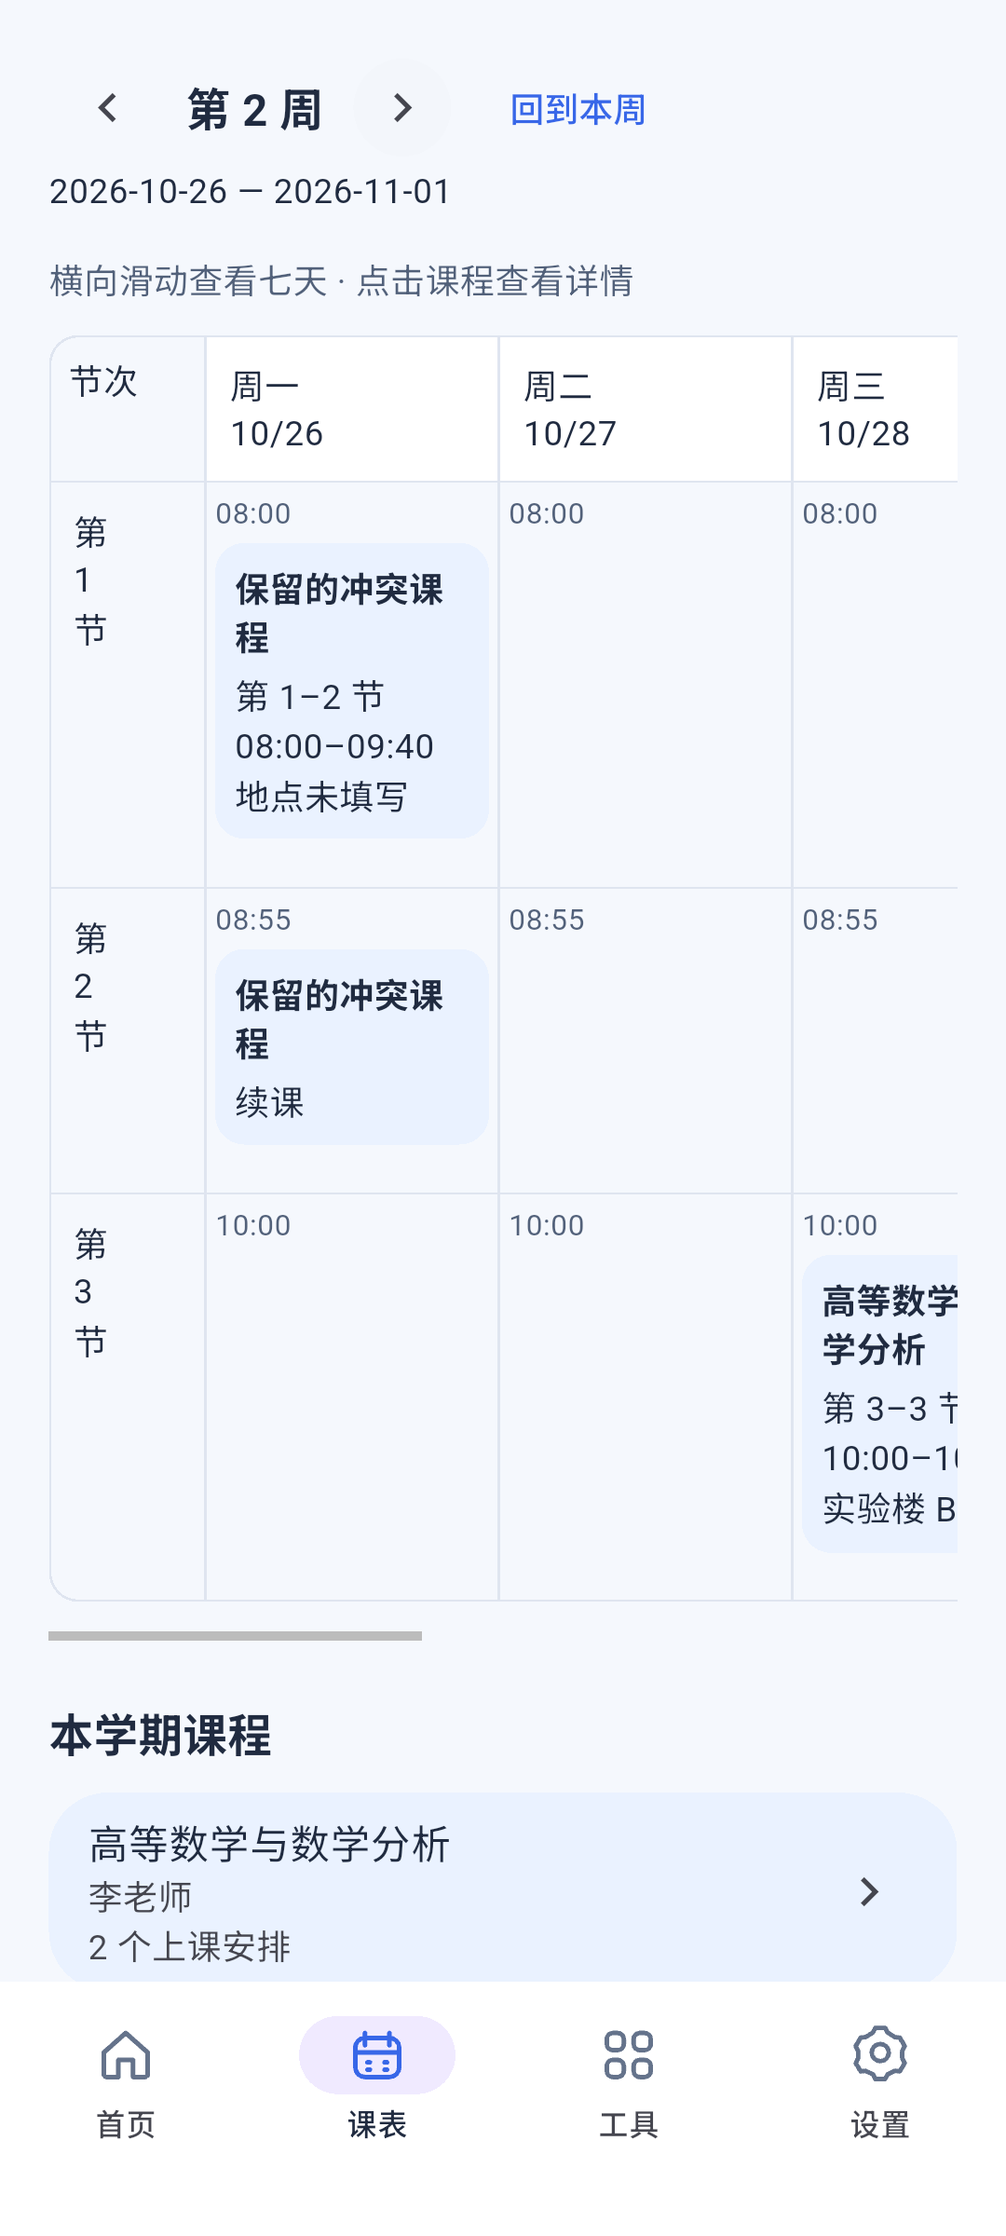
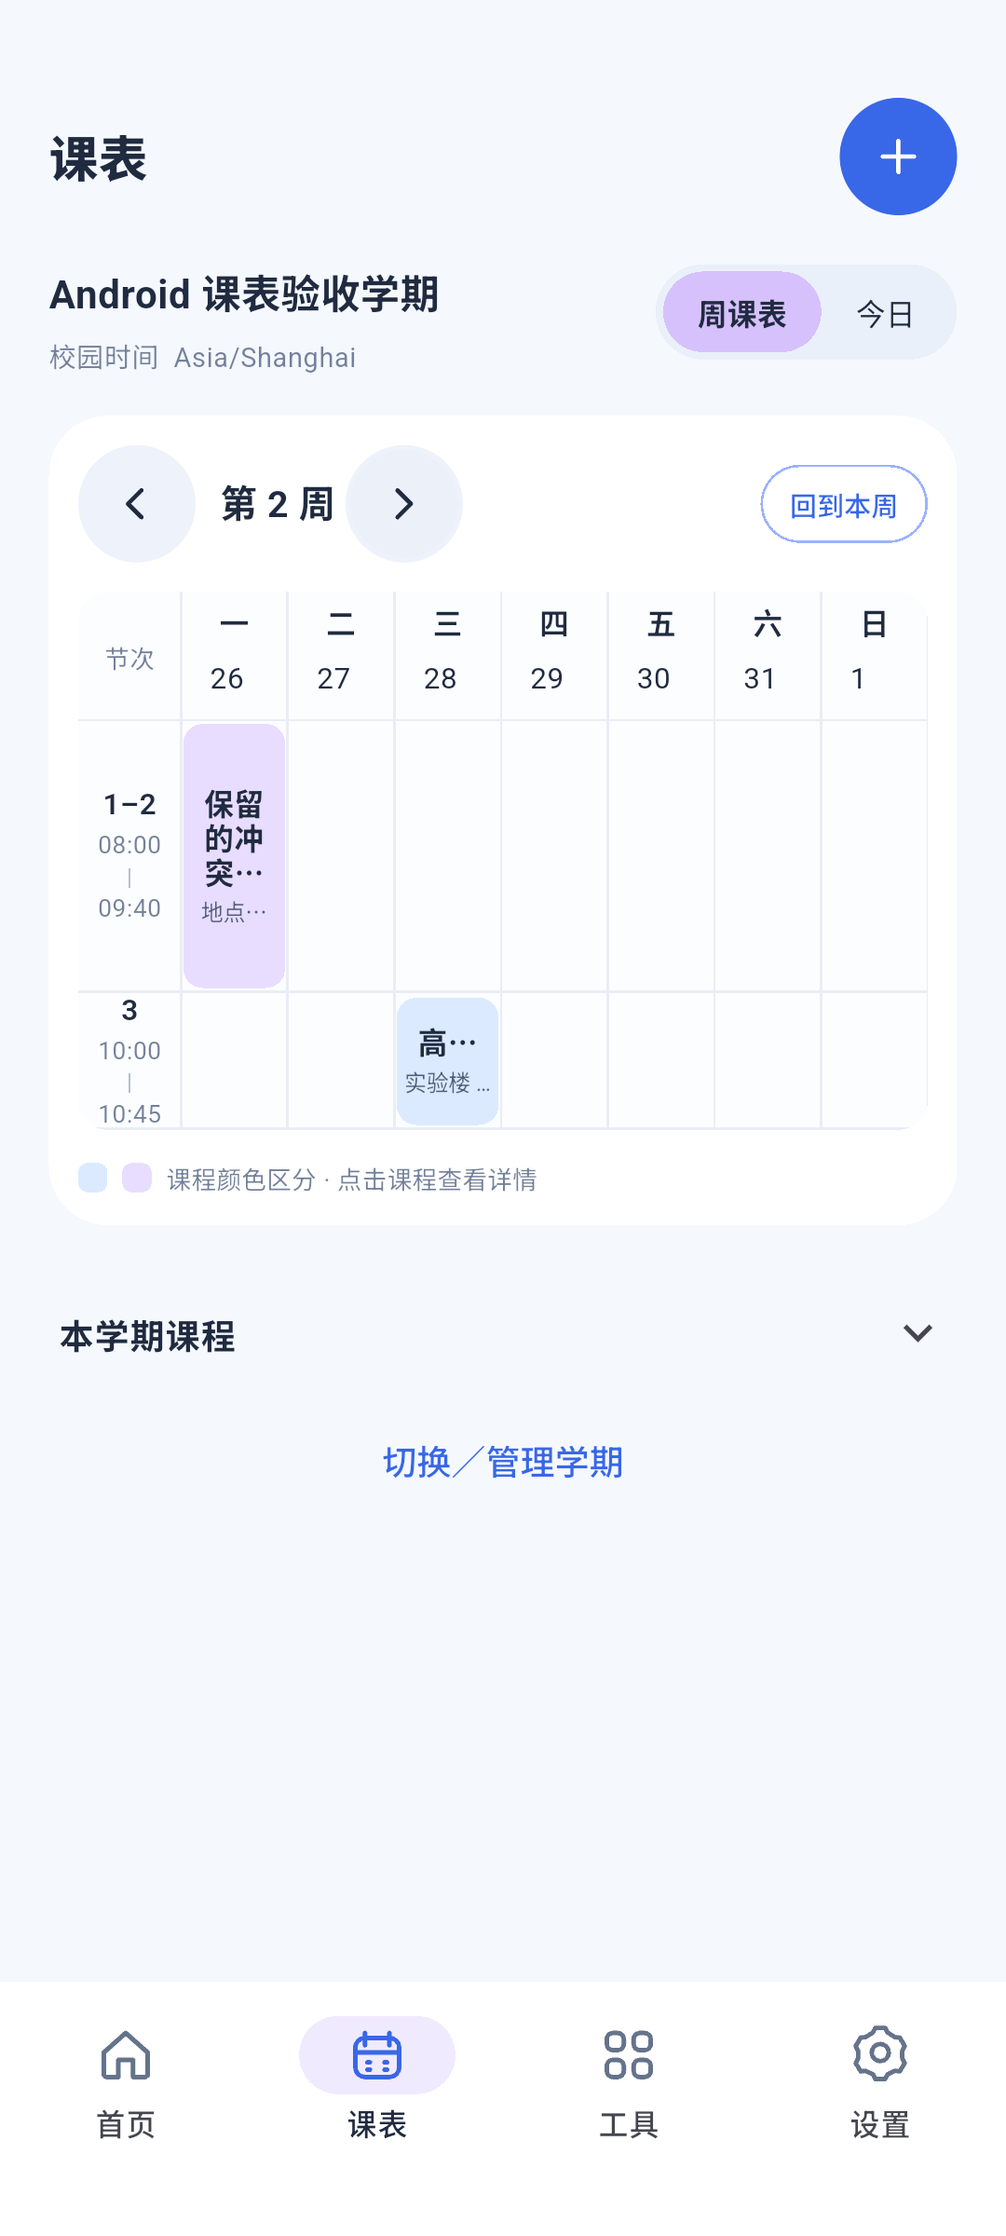
fix: respect weekday times and finalize timetable verification

diff --git a/test/timetable_ui_test.dart b/test/timetable_ui_test.dart
@@ -6,6 +6,7 @@ import 'package:flutter_test/flutter_test.dart';
 import 'package:timezone/data/latest_all.dart' as tzdata;
 import 'package:unipocket/app.dart';
 import 'package:unipocket/semesters/planner.dart';
+import 'package:unipocket/semesters/model.dart';
 import 'package:unipocket/storage/planner_store.dart';
 import 'package:unipocket/timetable/model.dart';
 
@@ -14,6 +15,56 @@ import 'support/widget_actions.dart';
 
 void main() {
   setUpAll(tzdata.initializeTimeZones);
+
+  testWidgets('有的星期缺少一组的结束节次且时间不同时，时间轴标明按星期，详情给出实际时间', (tester) async {
+    await tester.runAsync(() async {
+      final store = PlannerStore(NativeDatabase.memory());
+      final planner = SemesterPlanner(store);
+      final semester = await planner.saveSemester(
+        SemesterDraft(
+          name: '不同星期时间',
+          firstMonday: DateTime.utc(2026, 8, 31),
+          totalWeeks: 20,
+          periods: {
+            1: [const PeriodTime(480, 525), const PeriodTime(535, 580)],
+            2: [const PeriodTime(600, 645)],
+          },
+        ),
+      );
+      await planner.saveCourse(
+        CourseDraft(
+          semesterId: semester,
+          name: '周二课程',
+          schedules: [
+            ScheduleDraft(
+              weekday: 2,
+              startPeriod: 1,
+              endPeriod: 1,
+              location: 'B302',
+              weeks: {1},
+            ),
+          ],
+        ),
+      );
+      try {
+        await tester.pumpWidget(
+          UniPocketApp(
+            planner: planner,
+            clock: () => DateTime.utc(2026, 8, 31),
+          ),
+        );
+        await tester.pumpAndSettle();
+        await tapVisible(tester, find.text('课表'));
+        expect(find.text('按星期'), findsOneWidget);
+        await tapVisible(tester, find.text('周二课程'));
+        expect(find.textContaining('10:00–10:45'), findsOneWidget);
+        expect(tester.takeException(), isNull);
+      } finally {
+        await tester.pumpWidget(const SizedBox.shrink());
+        await store.close();
+      }
+    });
+  });
 
   testWidgets('六种基础色用完后，新课程仍默认分配未使用的颜色，编辑不改变已有安排颜色', (tester) async {
     await tester.runAsync(() async {

diff --git a/lib/ui/design.dart b/lib/ui/design.dart
@@ -51,6 +51,64 @@ class RoundDesignButton extends StatelessWidget {
 String dateText(DateTime date) =>
     '${date.year.toString().padLeft(4, '0')}-${date.month.toString().padLeft(2, '0')}-${date.day.toString().padLeft(2, '0')}';
 
+class AppNavigationItem extends StatelessWidget {
+  const AppNavigationItem({
+    required this.icon,
+    required this.label,
+    required this.selected,
+    required this.onTap,
+    super.key,
+  });
+  final String icon;
+  final String label;
+  final bool selected;
+  final VoidCallback onTap;
+
+  @override
+  Widget build(BuildContext context) => Semantics(
+    button: true,
+    selected: selected,
+    child: Padding(
+      padding: const EdgeInsets.symmetric(horizontal: 4),
+      child: DecoratedBox(
+        decoration: BoxDecoration(
+          color: selected ? lavenderSoft : Colors.white,
+          borderRadius: BorderRadius.circular(20),
+        ),
+        child: Material(
+          type: MaterialType.transparency,
+          child: InkWell(
+            borderRadius: BorderRadius.circular(20),
+            onTap: onTap,
+            child: Padding(
+              padding: const EdgeInsets.symmetric(vertical: 8),
+              child: Column(
+                mainAxisSize: MainAxisSize.min,
+                children: [
+                  DesignIcon(
+                    icon,
+                    size: 22,
+                    color: selected ? primaryBlue : const Color(0xff93a0b5),
+                  ),
+                  const SizedBox(height: 4),
+                  Text(
+                    label,
+                    style: TextStyle(
+                      fontSize: 12,
+                      color: selected ? primaryBlue : const Color(0xff73819a),
+                      fontWeight: selected ? FontWeight.w700 : FontWeight.w500,
+                    ),
+                  ),
+                ],
+              ),
+            ),
+          ),
+        ),
+      ),
+    ),
+  );
+}
+
 ThemeData appTheme() => ThemeData(
   useMaterial3: true,
   colorScheme: ColorScheme.fromSeed(seedColor: primaryBlue).copyWith(

diff --git a/lib/app.dart b/lib/app.dart
@@ -258,7 +258,7 @@ class _AppShellState extends State<_AppShell> with WidgetsBindingObserver {
                     TextButton(
                       onPressed: () => setState(() => _page = 1),
                       child: const Text(
-                        '全部 ›',
+                        '全部',
                         style: TextStyle(
                           fontSize: 12,
                           color: Color(0xff73819a),
@@ -432,23 +432,33 @@ class _AppShellState extends State<_AppShell> with WidgetsBindingObserver {
         ],
       ),
     ),
-    bottomNavigationBar: NavigationBar(
+    bottomNavigationBar: Material(
       key: const ValueKey('main-navigation'),
-      selectedIndex: _page,
-      onDestinationSelected: (index) => setState(() => _page = index),
-      destinations: [
-        for (final entry in [
-          ('home', '首页'),
-          ('calendar', '课表'),
-          ('grid', '工具'),
-          ('settings', '设置'),
-        ])
-          NavigationDestination(
-            icon: DesignIcon(entry.$1, color: const Color(0xff65738b)),
-            selectedIcon: DesignIcon(entry.$1, color: primaryBlue),
-            label: entry.$2,
+      color: Colors.white,
+      child: SafeArea(
+        top: false,
+        child: Padding(
+          padding: const EdgeInsets.fromLTRB(20, 8, 20, 8),
+          child: Row(
+            children: [
+              for (final (index, entry) in [
+                ('home', '首页'),
+                ('calendar', '课表'),
+                ('grid', '工具'),
+                ('settings', '设置'),
+              ].indexed)
+                Expanded(
+                  child: AppNavigationItem(
+                    icon: entry.$1,
+                    label: entry.$2,
+                    selected: index == _page,
+                    onTap: () => setState(() => _page = index),
+                  ),
+                ),
+            ],
           ),
-      ],
+        ),
+      ),
     ),
   );
 }

diff --git a/lib/timetable/week_grid.dart b/lib/timetable/week_grid.dart
@@ -37,8 +37,11 @@ class _WeekGridState extends State<WeekGrid> {
   Widget _periodLabel(int start, int end) {
     final times = {
       for (final periods in widget.timetable.semester.periods.values)
-        if (periods.length >= end)
-          (periods[start - 1].startMinutes, periods[end - 1].endMinutes),
+        if (periods.length >= start)
+          (
+            periods[start - 1].startMinutes,
+            periods.length >= end ? periods[end - 1].endMinutes : null,
+          ),
     };
     return Column(
       mainAxisAlignment: MainAxisAlignment.center,
@@ -51,7 +54,7 @@ class _WeekGridState extends State<WeekGrid> {
             fontWeight: FontWeight.w600,
           ),
         ),
-        if (times.length == 1) ...[
+        if (times.length == 1 && times.single.$2 != null) ...[
           const SizedBox(height: 4),
           Text(
             PeriodTime.format(times.single.$1),
@@ -68,14 +71,14 @@ class _WeekGridState extends State<WeekGrid> {
             color: const Color(0xffb6c0d1),
           ),
           Text(
-            PeriodTime.format(times.single.$2),
+            PeriodTime.format(times.single.$2!),
             style: const TextStyle(
               fontSize: 10,
               height: 1.2,
               color: Color(0xff73819a),
             ),
           ),
-        ] else if (times.length > 1)
+        ] else if (times.isNotEmpty)
           const Text(
             '按星期',
             style: TextStyle(fontSize: 10, color: Color(0xff73819a)),

diff --git a/.scratch/unipocket-v1/verification/02-manual-timetable.md b/.scratch/unipocket-v1/verification/02-manual-timetable.md
@@ -4,10 +4,11 @@
 
 ## 实现范围
 
-- 课程名称、教师及六种识别色；每门课程可保存多个独立星期、节次、地点和教学周的上课安排。
+- 课程名称、教师及独立识别色；录课时显示带颜色的选择项和实时预览，新课程默认分配未使用的颜色。前六种沿用参考配色，用完后继续分配新色相，不循环复用。同一课程的全部安排共用课程颜色，编辑后保持一致。
 - 教学周提供全部周、单周、双周、连续范围及逐周选择；保存前校验所有输入，含已滚出屏幕的字段。
 - 首页快捷录课并按校园时区显示当前学期的今日课程；周课表支持切周、回本周、今日列表及课程详情。
-- 七天网格横向滚动，完整课程名可换行；多个节次的课程在首节展示完整信息、后续节次标明续课。冲突课程分别展示。
+- 普通字号下 320／393 宽度完整呈现七天，跨节课程合并为连续色块，日期与今天整列高亮；大字号或存在冲突时允许横向滚动，冲突课程使用独立列道，不互相遮挡。网格内过长文字省略后仍可点击查看完整详情。
+- 首页按参考图使用蓝色圆形添加按钮、两行问候、太阳贴纸、白色今日课程容器、下一节／进行中标签和书本贴纸。周课表保留学期与时区、分段切换、周切换圆钮、回本周胶囊；底部选中导航采用蓝色文字和淡紫整块胶囊。
 - 编辑基本信息保留安排与身份；课程重复安排修改、删除及其影响仍由任务 06 交付。学期变更若使已有课程节次或教学周失效，会明确阻止保存。
 - Drift schema 1 → 2 增加课程与上课安排表，保留原学期和设置；新增课程与全部安排在一个事务中提交。
 
@@ -16,16 +17,19 @@
 | 检查 | 结果及边界 |
 | --- | --- |
 | `flutter analyze` | 通过，无静态分析问题。 |
-| `flutter test` | 17 条通过：8 条应用行为测试、9 条界面测试；包含任务 1 的原有回归。 |
+| `flutter test` | 21 条通过：8 条应用行为测试、13 条界面测试；包含任务 1 的原有回归。 |
 | 真实 SQLite 重开 | 多安排、教师、颜色、地点和任意周选择保留；关闭文件数据库后重新打开读取。 |
 | 周一基准与校园时间 | 周日／周一边界、校园午夜前后、非教学周、不同星期节次与当前学期隔离通过。 |
 | 冲突确认 | 相同星期、相交教学周及真实时间重叠触发提示；不同周不误报。返回修改不写入，确认后两门课程重开仍在。 |
 | 数据完整性 | 空名称、缺少安排、非法星期／节次、空周及越界周不写入；课程基本信息编辑保留安排；破坏已有课程的学期修改不写入。 |
 | 数据库升级 | 从任务 1 的 schema 1 SQL 夹具及已有数据启动，保留学期、节次、当前学期与校园时区，随后可正常录课。 |
 | 界面操作 | 从首页录课到真实 SQLite，再重开并编辑基本信息；连续周、单双周与任意周交互、冲突取消／确认、空周错误通过。 |
-| 布局与可达性 | 320／393 宽度、双倍文字、安全区域、长学期／课程／地点、表单滚动保存与课表横向滚动均通过。 |
+| 布局与可达性 | 320／393 普通字号下七天同屏；双倍文字、安全区域、长学期／课程／地点、表单滚动保存与课表横向滚动均通过。 |
+| 课程颜色 | 新增默认色不与已有课程循环复用，覆盖第七门课程；每门课程与其全部安排共用识别色，添加界面可预览。 |
+| 独立节次时间回归 | 周一有两节、周二仅一节且时间不同，时间轴显示“按星期”，课程详情显示真实的 10:00–10:45；回归先失败后通过。 |
 | `flutter build web --no-web-resources-cdn` | 通过；本次未做浏览器运行或 Web 升级数据验收。 |
 | Android API 36 模拟器 | 真实表单录入、多安排、多地点、单双周、冲突确认、切周与今日视图通过；新进程恢复通过，见下。 |
+| 正式 Android 调试构建 | `flutter build apk --debug` 通过，构建目标为正式 `main.dart`；已保留数据安装并打开正式应用。 |
 
 真实 SQLite 使用异步文件操作。测试等待用户可见的保存结果，不以一次 `pumpAndSettle` 代替磁盘完成；Android 与 Widget 测试复用滚动后点击的操作辅助函数。
 
@@ -34,14 +38,14 @@
 - 设备：`Medium_Phone_API_36.0`，Android 16 / API 36 模拟器。Flutter 3.47.7 / Dart 3.13.5；已有 SDK、JDK 和依赖可用，未新增依赖或安装工具链。
 - 入口：`integration_test/timetable_flow_test.dart`。通过应用业务入口预置专用学期，课程通过真实界面录入。正式 `main.dart` 不含预置数据。
 - 时钟是明确的外部测试边界，固定为 `2026-10-19T00:00:00Z`，校园时区 `Asia/Shanghai`，用于两阶段一致显示第 1 周周一；截图日期不表示拍摄日期。
-- 两阶段均使用 `--keep-app-running` 和数据库 `unipocket_timetable_20261025_c`。第一阶段进程 5455，通过后只执行 `adb shell am force-stop com.hongbozcode.unipocket`，不清空数据；第二阶段新进程 5651。
-- 新进程恢复“高等数学与数学分析”及确认保留的冲突课程；教师、两处地点、周一 1–2 节单周和周三第 3 节双周均一致。切换到第 2 周、返回今日视图通过。
+- 两阶段均使用 `--keep-app-running` 和数据库 `unipocket_timetable_20261025_d`。第一阶段进程 6954，通过后只执行 `adb shell am force-stop com.hongbozcode.unipocket`，不清空数据；第二阶段新进程 7158。
+- 新进程恢复“高等数学与数学分析”及确认保留的冲突课程，两课颜色不同；教师、两处地点、周一 1–2 节单周和周三第 3 节双周均一致。切换到第 2 周、返回今日视图通过。
 - 验证期间未改变模拟器网络或手机时区；本次不以已联网环境的运行宣称完成独立断网验收。任务 1 的离线与手机时区变更记录独立保留。
 
 ```powershell
-flutter drive --keep-app-running --driver=test_driver/integration_test.dart --target=integration_test/timetable_flow_test.dart -d emulator-5554 --dart-define=ACCEPTANCE_DATABASE=unipocket_timetable_20261025_c
+flutter drive --keep-app-running --driver=test_driver/integration_test.dart --target=integration_test/timetable_flow_test.dart -d emulator-5554 --dart-define=ACCEPTANCE_DATABASE=unipocket_timetable_20261025_d
 adb -s emulator-5554 shell am force-stop com.hongbozcode.unipocket
-flutter drive --keep-app-running --driver=test_driver/integration_test.dart --target=integration_test/timetable_flow_test.dart -d emulator-5554 --dart-define=ACCEPTANCE_DATABASE=unipocket_timetable_20261025_c --dart-define=ACCEPTANCE_RESTORE=true
+flutter drive --keep-app-running --driver=test_driver/integration_test.dart --target=integration_test/timetable_flow_test.dart -d emulator-5554 --dart-define=ACCEPTANCE_DATABASE=unipocket_timetable_20261025_d --dart-define=ACCEPTANCE_RESTORE=true
 ```
 
 重复验收时使用新的数据库名，两阶段保持同名。
@@ -54,9 +58,27 @@ flutter drive --keep-app-running --driver=test_driver/integration_test.dart --ta
 - [新进程恢复后的今日课程](evidence/02-android-process-restored.png)
 - [新进程恢复后的第 2 周课表](evidence/02-android-week-restored.png)
 
+## 源图细节对照
+
+- 参考：现行[首页与周课表效果图](../../../docs/design/resources/core-pages/01-首页与周课表.png)、[首页样板截图](../../../docs/design/resources/screenshots/home.png)与[课表样板截图](../../../docs/design/resources/screenshots/timetable.png)。
+- 使用独立入口 `integration_test/timetable_visual_test.dart`，固定校园日期 2026-10-23（周五，第 8 周），五门示例课程、八节课，用于对齐参考图状态。示例仅存于专用验收数据库 `unipocket_reference_20261025_d`，不进入正式数据库。
+- 对照视口为 **393×852 逻辑尺寸**；模拟器暂时使用 1179×2556 / density 480，采集后已恢复原 1080×2400 / density 420。逐轮对照中修正了过宽网格、跨节续课重复块、配置说明占位、课程卡片密度、圆钮背景及导航选中态。
+- 最终实际界面：[首页](evidence/02-reference-home.png)、[周课表](evidence/02-reference-week-final.png)、[录课颜色预览](evidence/02-course-color-preview.png)。已逐项核查七天列宽、连续色块、日期高亮、圆角、图标、贴纸、周切换、颜色选择与导航胶囊。课表最终图是原始采集 PNG 的同字节独立命名副本，SHA-256 一致，便于避免同路径多次采集的预览缓存。
+- 对照范围是本任务已实现区域，不宣称整张效果图逐像素一致。DDL、倒计时、常用工具和导入快捷项仍属后续任务，未复制成虚假操作；正式 Android 保留系统安全区域。字体使用设备中文字体，窄网格的长地点可省略并在详情完整显示。
+
 ## 两轴代码审查
 
-基线：任务开始时的 `285901f5ecbe890055287810e5d52fbb55b53d23`。审查进行中，最终结果将在修复及复核后补齐。
+基线：任务开始时的 `285901f5ecbe890055287810e5d52fbb55b53d23`。规范轴和规格轴由独立子代理并行审查。
+
+### Standards
+
+初审 0 项发现。未发现违反项目文档约定的实现，也无须在本次整改的代码异味。业务校验与存储分离，保存使用事务，测试使用真实 SQLite 和共同应用入口；颜色按课程保存，界面复用既有 SVG 与参考布局。
+
+### Spec
+
+初审 1 项 P2，已修复并复核：两节一组的时间轴原来忽略仅有一节的星期，可能错误显示其他星期的时间范围。现纳入全部具有起始节次的星期，时间不同或缺结束节次时显示“按星期”；新界面回归验证提示和详情真实时间，先失败后通过。
+
+最终未关闭：Standards 0 项，Spec 0 项。最终小范围导航／时间轴改动与证据更新已完成增量复核，无新增未关闭发现。
 
 ## 明确边界
 

diff --git a/.scratch/unipocket-v1/issues/02-manual-timetable.md b/.scratch/unipocket-v1/issues/02-manual-timetable.md
@@ -25,4 +25,4 @@
 
 ## Comments
 
-2026-10-25：任务 2 已实现，17 条真实 SQLite／界面回归、静态检查、Web 构建及 Android 多安排录入与新进程恢复验证通过。代码审查进行中。详细证据与验证边界见[检查记录](../verification/02-manual-timetable.md)。Status 保留其 triage 含义；重复安排修改与删除仍由任务 06 交付。
+2026-10-25：任务 2 已实现，21 条真实 SQLite／界面回归、静态检查、Android 调试／Web 构建及 Android 多安排录入与新进程恢复验证通过。按用户追加要求对照 393×852 源图调整细节，录课提供颜色选择与预览，每门课程保持一致识别色，新课程默认使用未分配颜色。两轴审查发现的 1 项时间轴问题已修复并复核，无未关闭发现。详细证据与验证边界见[检查记录](../verification/02-manual-timetable.md)。Status 保留其 triage 含义；重复安排修改与删除仍由任务 06 交付。
